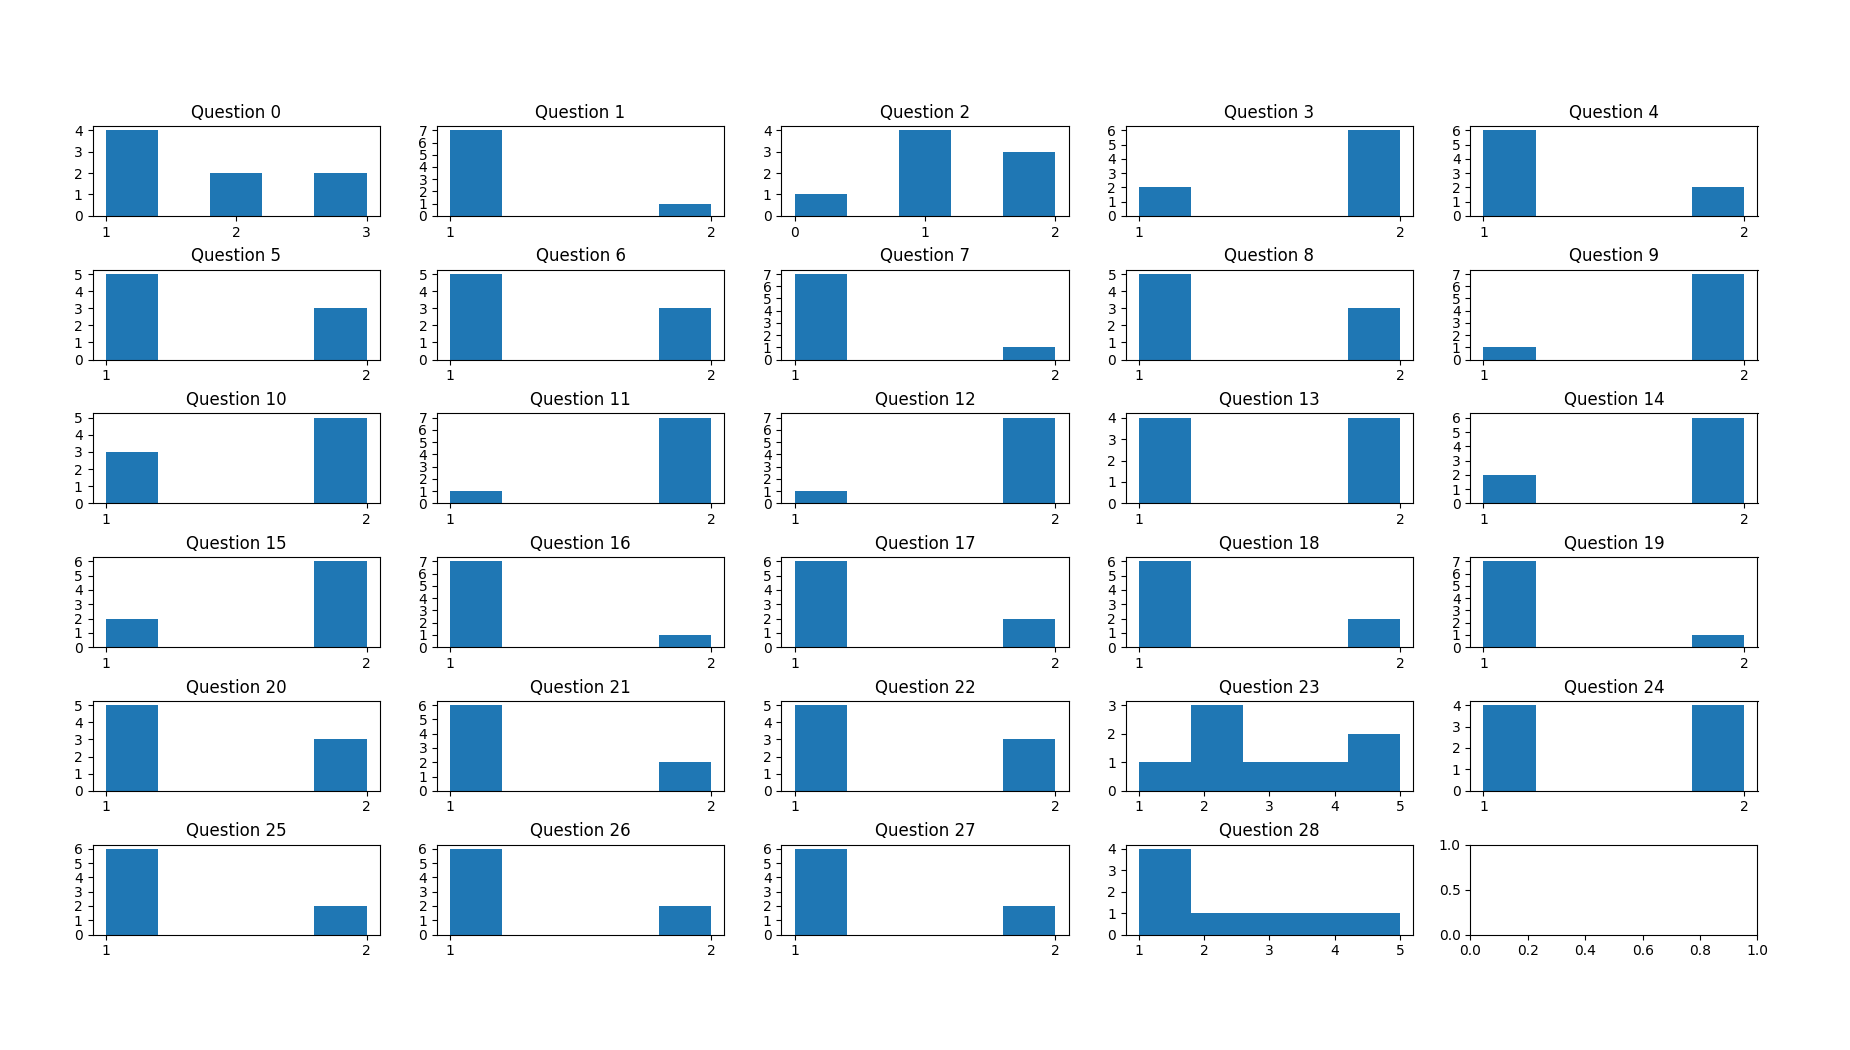
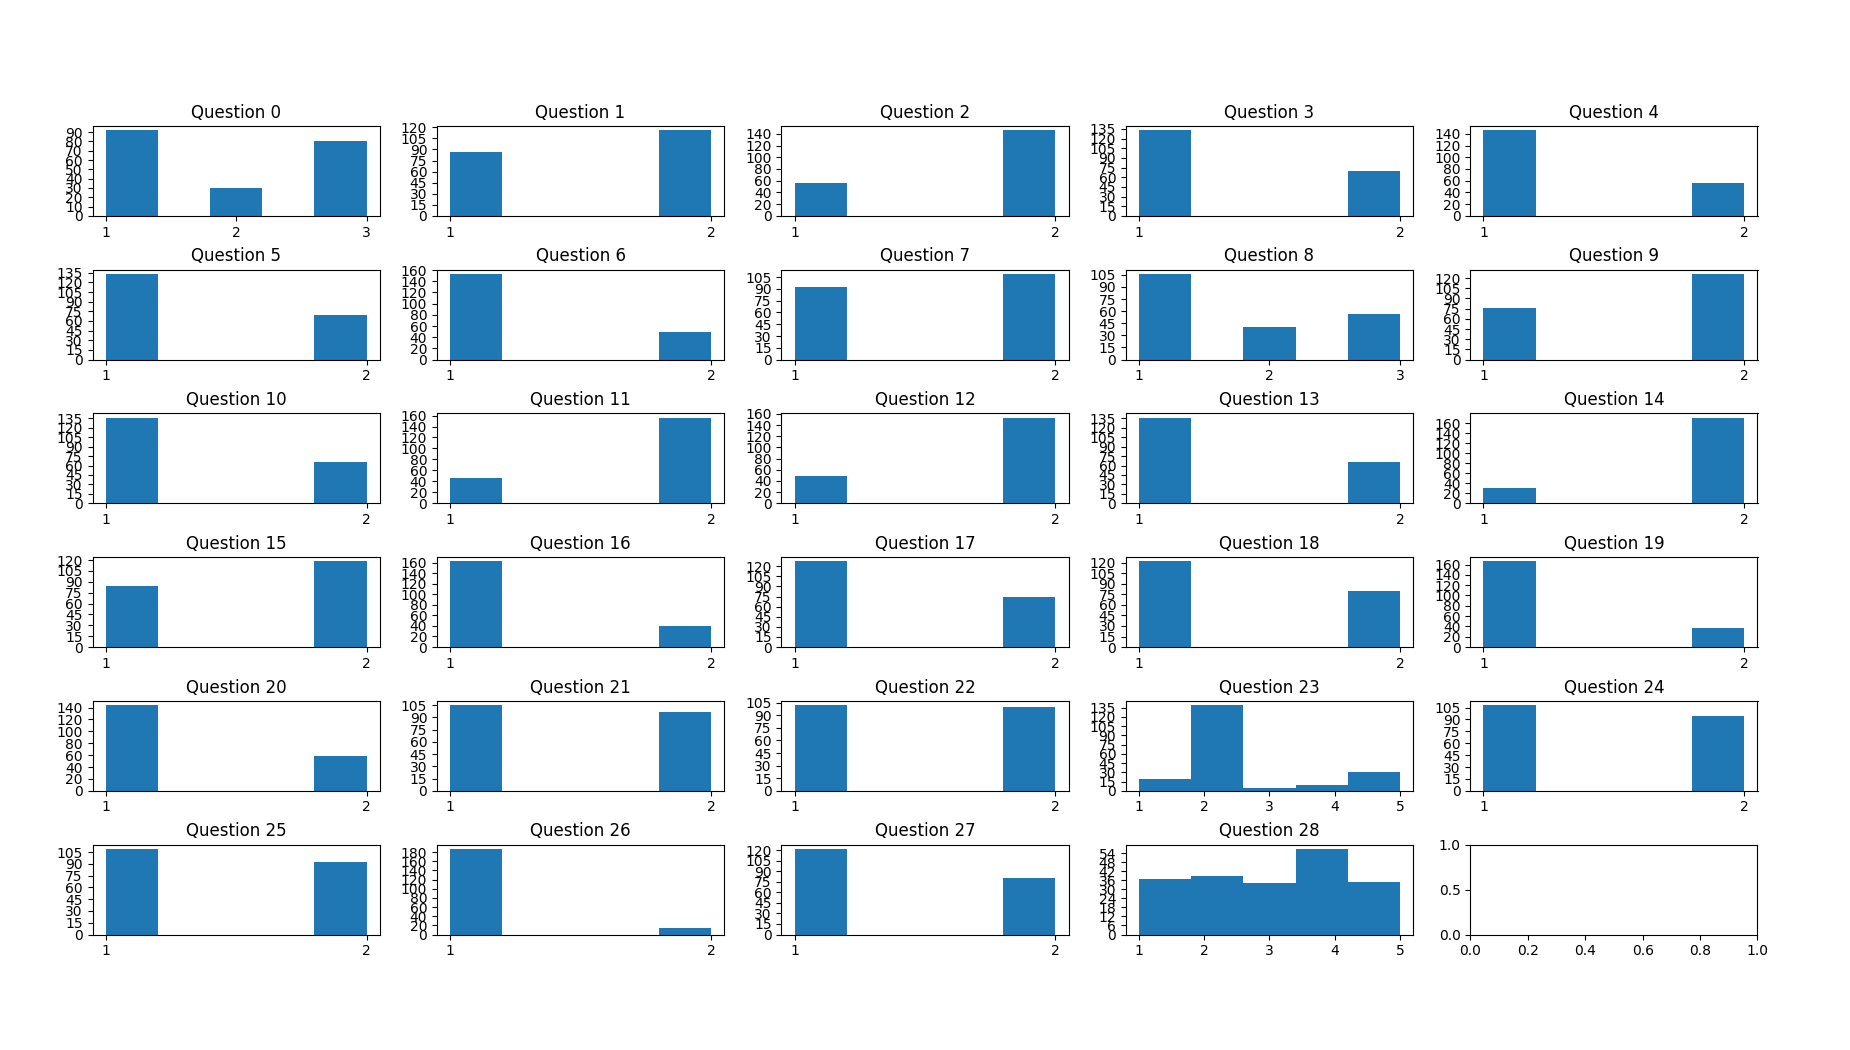
Add more matplotlib graphs

diff --git a/match.py b/match.py
@@ -26,26 +26,46 @@ Each row has the following columns:
 16: User Language
 
 ############### Athlete Mingle Data ###############
-17: First, let's get a few things out of the way
-What grade are you in?
-18: What sport do you do?
-19: Major? (or interest if no major yet)
-20: Do you want to be placed in a group with one teammate or friend? You should both put each other's name for this question!
-21: Do you want to be placed with people in your grade?
-22: Would you rather do a 1-on-1?
-23: Would you be interested in a student-athlete speed-dating event in the future?
+17: First and last name
+18: Stanford email
+19: What year are you?
+20: What sport do you do?
+21: Major? (or interest if no major yet)
+22: Would you rather be matched 1-on-1 or in a small group?
+23: If you want one teammate or friend to be in your group, you should both put
+    each other's name for this question! Leave this question blank if you'd
+    like your entire group to be a ~surprise~.
+24: Do you want to be placed with people in your year?
 
-############### Questions ###############
-24-52: Questions
+25-53
+
+54: Unrelated to Athlete Mingle: would you be interested in a student-athlete
+    speed dating event in the future?
+
+############### Extras ###############
+55: Q7 - Parent Topics
+56: Q7 - Sentiment Polarity
+57: Q7 - Sentiment Score
+58: Q7 - Sentiment
+59: Q7 - Topic Sentiment Label
+60: Q7 - Topic Sentiment Score
+61: Q7 - Topics
 """
 
 import csv
 import json
+import os
 
 import matplotlib.pyplot as plt
 from matplotlib.ticker import MaxNLocator
 import numpy as np
 import seaborn as sb
+
+SPORTS = {}
+with open('sports.json') as f:
+    SPORTS = json.load(f)
+
+print(SPORTS)
 
 def loadData(filename):
     print(f"{'=' * 10} Loading data {'=' * 10}")
@@ -55,6 +75,9 @@ def loadData(filename):
     with open(filename) as f:
         question_ids, questions, _, *responses = csv.reader(f)
         
+        # for i, column in enumerate(questions):
+        #     print(f"{i}: {column}")
+        
         for person_id, row in enumerate(responses):
             person = {
                 'id': person_id,
@@ -62,17 +85,21 @@ def loadData(filename):
                 'end date': row[1],
                 'qualtrics_id': row[8],
                 'meta data': {
-                    'year': row[17],
-                    'sport': row[18],
-                    'major': row[19],
+                    'name': row[17],
+                    'email': row[18],
+                    'year': int(row[19]),
+                    # 'gender': sports[row[20]]["gender"],
+                    # 'sport': sports[row[20]]["sport"],
+                    'sport': int(row[20]),
+                    'major': int(row[21]),
                 },
                 'athlete mingle': {
-                    'friend': row[20],
-                    'same grade': row[21],
-                    '1-on-1': row[22],
-                    'speed-dating': row[23],
+                    '1-on-1': int(row[22]),
+                    'friend': row[23],
+                    'same grade': int(row[24]),
                 },
-                'responses': [int(x) if x != '' else 0 for x in row[24:]]
+                'responses': [int(x) for x in row[25:54]],
+                'speed-dating': int(row[54])
             }
             people.append(person)
             
@@ -89,6 +116,127 @@ def cleanData(people):
 def analyzeData(people):
     print(f"\n{'=' * 10} Analyzing data {'=' * 10}")
     
+    ########## Analyze years ##########
+    
+    years = [person['meta data']['year'] for person in people]
+    labels = ['Frosh', 'Sophomore', 'Junior', 'Senior', '5th Year/Coterm']
+    counts = [years.count(i) for i in range(1, len(labels) + 1)]
+    
+    plt.bar(range(len(counts)), counts, color='#Bf0A30')
+    plt.xlabel('Year')
+    plt.ylabel('Responses')
+    plt.title('Athlete Mingle Year Distribution')
+
+    plt.xticks(range(len(counts)), labels)
+
+    plt.savefig('output/years.png')
+    
+    ########## Get sports ##########
+    
+    res_sports = []
+    
+    with open('data/Athlete Mingle_February 13, 2021_22.04.csv') as f:
+        question_ids, questions, _, *responses = csv.reader(f)
+        
+        res_sports = [row[20] for row in responses]
+        
+    ########## Analyze sports ##########
+    
+    labels = [sport['sport'] for sport in SPORTS.values()]
+    counts = [res_sports.count(label) for label in labels]
+    
+    fig, ax = plt.subplots()
+    
+    # TODO: set plt dimensions
+    
+    ax.barh(range(len(counts)), counts, color='#Bf0A30')
+    ax.invert_yaxis()
+    plt.ylabel('Sport')
+    plt.xlabel('Responses')
+    plt.title('Athlete Mingle Sport Distribution')
+
+    plt.yticks(range(len(counts)), labels)
+
+    # plt.savefig('output/sports.png')
+    plt.show()
+    
+    ########## Analyze sports ##########
+    
+    labels = ['M', 'W', 'B']
+    counts = [0, 0, 0]
+    for res in res_sports:
+        for sport in SPORTS.values():
+            if sport['sport'] == res:
+                counts[labels.index(sport['gender'])] += 1
+    
+    fig, ax = plt.subplots()
+    
+    plt.bar(range(len(counts)), counts, color='#Bf0A30')
+    plt.xlabel('Gender')
+    plt.ylabel('Responses')
+    plt.title('Athlete Mingle Gender Distribution')
+
+    plt.xticks(range(len(counts)), ['Men', 'Women', 'Co-Ed'])
+
+    # plt.savefig('output/sports.png')
+    # plt.show()
+    
+    ########## Analyze year/gender ##########
+    
+    labels = ['Frosh', 'Sophomore', 'Junior', 'Senior', '5th Year/Coterm']
+    men_count = [0] * len(labels)
+    women_count = [0] * len(labels)
+    both_count = [0] * len(labels)
+    
+    for y, s in zip(years, res_sports):
+        gender = None
+        for sport in SPORTS.values():
+            if sport['sport'] == s:
+                gender = sport['gender']
+                break
+                
+        if gender == 'M':
+            men_count[y - 1] += 1
+        elif gender == 'W':
+            women_count[y - 1] += 1
+        if gender == 'B':
+            both_count[y - 1] += 1
+
+    x = np.arange(len(labels))  # the label locations
+    width = 0.2  # the width of the bars
+
+    fig, ax = plt.subplots()
+    rects1 = ax.bar(x - width, men_count, width, label='Men', color='#Bf0A30')
+    rects2 = ax.bar(x, women_count, width, label='Women', color='#4298B5')
+    rects3 = ax.bar(x + width, both_count, width, label='Co-Ed', color='#7F7776')
+
+    # Add some text for labels, title and custom x-axis tick labels, etc.
+    ax.set_ylabel('Responses')
+    ax.set_title('Athlete Mingle Year and Gender distributions')
+    ax.set_xticks(x)
+    ax.set_xticklabels(labels)
+    ax.legend()
+    
+    def autolabel(rects):
+        """Attach a text label above each bar in *rects*, displaying its height."""
+        for rect in rects:
+            height = rect.get_height()
+            ax.annotate('{}'.format(height),
+                        xy=(rect.get_x() + rect.get_width() / 2, height),
+                        xytext=(0, 3),  # 3 points vertical offset
+                        textcoords="offset points",
+                        ha='center', va='bottom')
+
+    autolabel(rects1)
+    autolabel(rects2)
+    autolabel(rects3)
+    
+    fig.tight_layout()
+
+    plt.show()
+    
+    ########## Analyze response distribution ##########
+    
     responses = np.array([person['responses'] for person in people])
     print(responses)
     
@@ -99,7 +247,7 @@ def analyzeData(people):
     for q in range(len(responses[0])):
         # TODO: add percentage labels for each bin (plt.annotate)
         axs[q // 5, q % 5].hist(responses[:, q], bins=5)
-        axs[q // 5, q % 5].set_title(f"Question {q}")
+        axs[q // 5, q % 5].set_title(f'Question {q}')
         axs[q // 5, q % 5].xaxis.set_major_locator(MaxNLocator(integer=True))
         axs[q // 5, q % 5].yaxis.set_major_locator(MaxNLocator(integer=True))
         
@@ -159,10 +307,12 @@ def match(people):
     return matches
 
 def main():
-    people = loadData('data/Athlete Mingle_February 10, 2021_21.20.csv')
+    filenames = [f for f in os.listdir('data') if f.startswith('Athlete')]
+    filename = 'data/' + max(filenames)
+    people = loadData(filename)
     people = cleanData(people)
     analyzeData(people)
-    matches = match(people)
+    # matches = match(people)
 
 if __name__ == '__main__':
     main()
